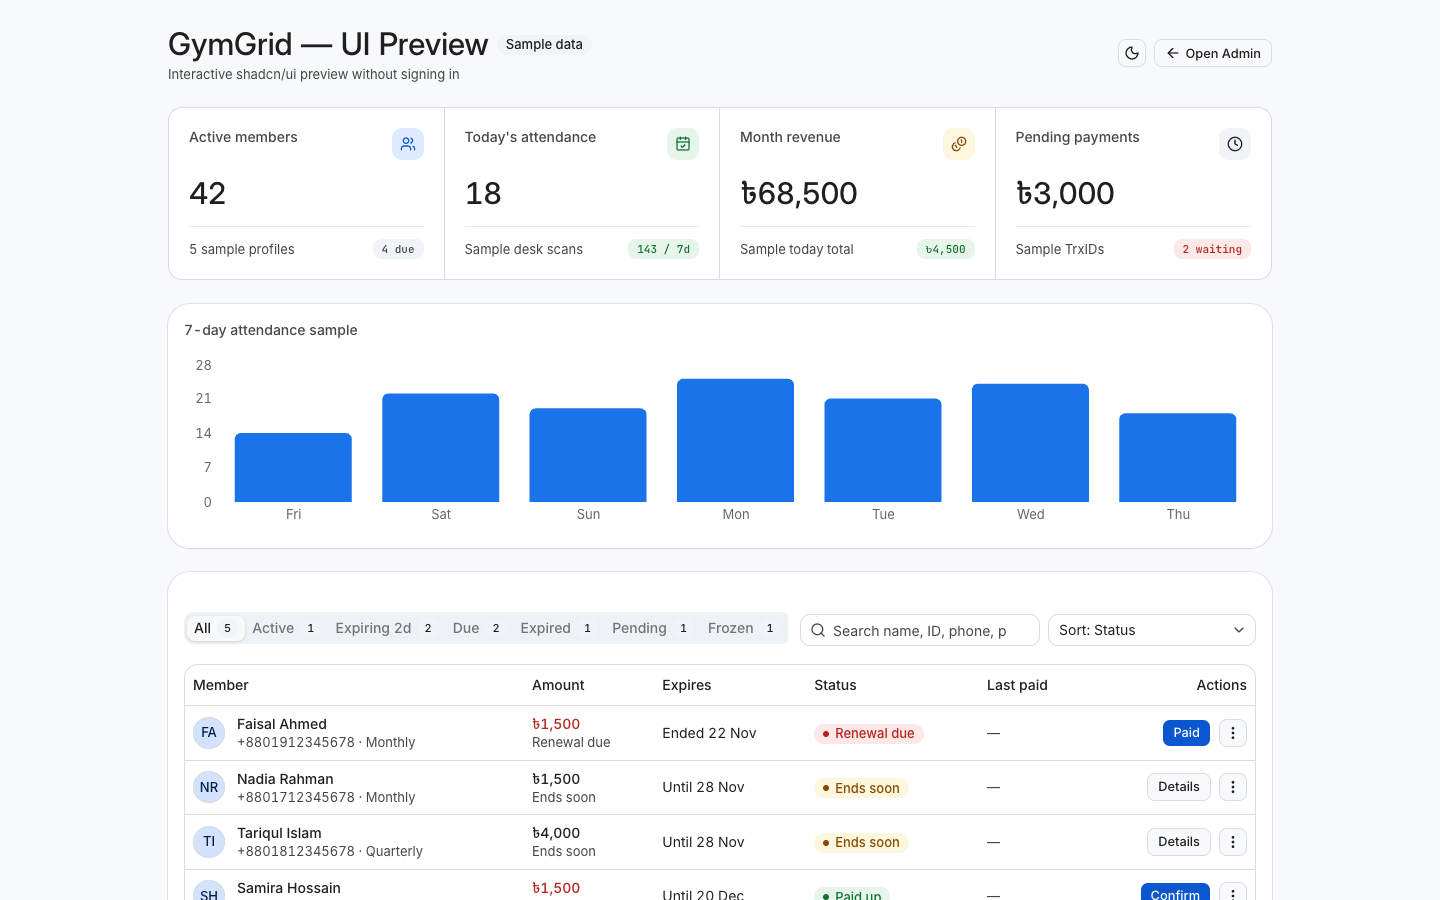
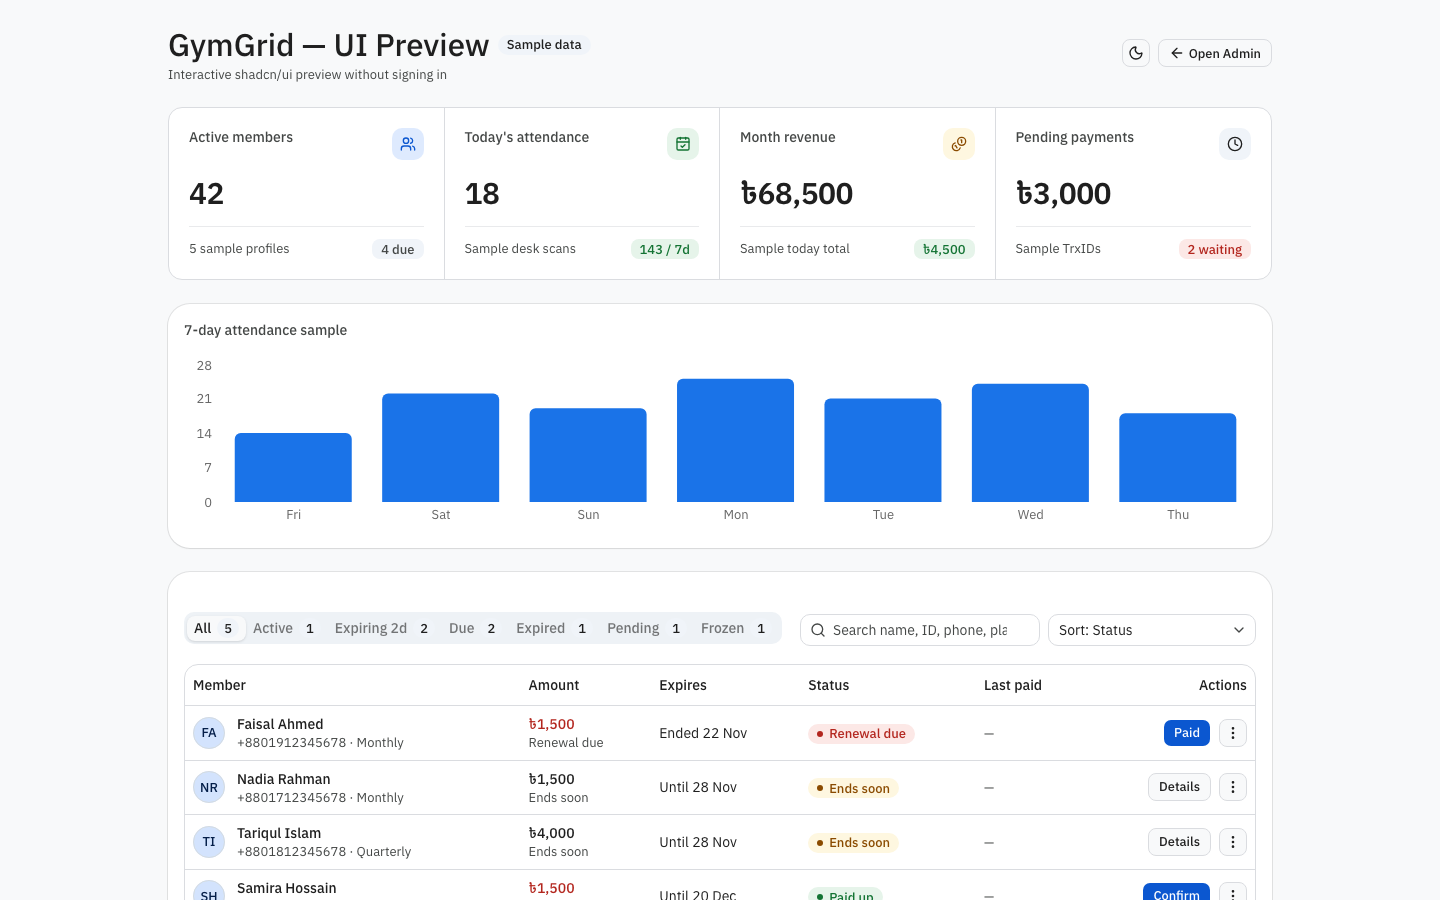
style(dashboard): switch to IBM Plex Sans and refine typography

diff --git a/components/member/MemberOverview.tsx b/components/member/MemberOverview.tsx
@@ -379,7 +379,7 @@ export function MemberOverview({
               <div className="flex flex-wrap items-center gap-2">
                 <CardTitle className="text-base font-medium">Member pass</CardTitle>
                 {member.member_code ? (
-                  <Badge variant="outline" className="rounded-md font-mono text-[11px] tabular-nums">
+                  <Badge variant="outline" className="rounded-md font-mono text-xs tabular-nums">
                     <bdi>{member.member_code}</bdi>
                   </Badge>
                 ) : null}
@@ -397,7 +397,7 @@ export function MemberOverview({
                 .filter((chip) => chip.label !== "Member ID")
                 .map((chip) => (
                   <div key={chip.label} className="min-w-0">
-                    <dt className="text-[11px] leading-[1.3] font-medium text-muted-foreground">
+                    <dt className="text-xs leading-[1.3] font-medium text-muted-foreground">
                       {chip.label}
                     </dt>
                     <dd
@@ -581,13 +581,13 @@ export function MemberOverview({
                     dataKey="label"
                     tickLine={false}
                     axisLine={false}
-                    className="font-mono text-[11px]"
+                    className="text-xs tabular-nums"
                   />
                   <YAxis
                     allowDecimals={false}
                     tickLine={false}
                     axisLine={false}
-                    className="font-mono text-[11px]"
+                    className="text-xs tabular-nums"
                   />
                   <ChartTooltip content={<ChartTooltipContent />} />
                   <Bar dataKey="count" radius={[6, 6, 0, 0]}>

diff --git a/app/layout.tsx b/app/layout.tsx
@@ -2,7 +2,8 @@ import type { Metadata, Viewport } from "next";
 import {
   Geist,
   Geist_Mono,
-  Inter,
+  IBM_Plex_Mono,
+  IBM_Plex_Sans,
   JetBrains_Mono,
   Newsreader,
   Noto_Sans_Bengali,
@@ -14,10 +15,17 @@ import { Toaster } from "@/components/ui/sonner";
 import { TooltipProvider } from "@/components/ui/tooltip";
 import "./globals.css";
 
-const inter = Inter({
+const plexSans = IBM_Plex_Sans({
   subsets: ["latin"],
-  variable: "--font-inter",
-  axes: ["opsz"],
+  weight: ["400", "500", "600", "700"],
+  variable: "--font-plex-sans",
+  display: "swap",
+});
+
+const plexMono = IBM_Plex_Mono({
+  subsets: ["latin"],
+  weight: ["400", "500", "600"],
+  variable: "--font-plex-mono",
   display: "swap",
 });
 
@@ -48,6 +56,7 @@ const geistMono = Geist_Mono({
 const editorial = Newsreader({
   subsets: ["latin"],
   weight: ["500", "600"],
+  style: ["normal", "italic"],
   variable: "--font-editorial",
   display: "swap",
 });
@@ -82,7 +91,7 @@ export default function RootLayout({ children }: { children: ReactNode }) {
       lang="en"
       dir="ltr"
       suppressHydrationWarning
-      className={`${inter.variable} ${bengali.variable} ${mono.variable} ${editorial.variable} ${geist.variable} ${geistMono.variable} h-full antialiased`}
+      className={`${plexSans.variable} ${plexMono.variable} ${bengali.variable} ${mono.variable} ${editorial.variable} ${geist.variable} ${geistMono.variable} h-full antialiased`}
     >
       {/* <!-- Designed & built by Moh Asraful Hasan Asif --> */}
       <body className="flex min-h-full flex-col bg-background font-sans text-foreground">

diff --git a/components/PlanView.tsx b/components/PlanView.tsx
@@ -45,7 +45,7 @@ export function PlanView({ workout, diet }: PlanViewProps) {
                       {day.focus ? `${day.day} - ${day.focus}` : day.day}
                     </div>
                     {estMin > 0 ? (
-                      <span className="text-[11px] font-mono text-muted-foreground tabular-nums">
+                      <span className="text-xs text-muted-foreground tabular-nums">
                         ~{estMin} min
                       </span>
                     ) : null}
@@ -74,7 +74,7 @@ export function PlanView({ workout, diet }: PlanViewProps) {
                             {muscles}
                           </span>
                           {notes ? (
-                            <span className="block text-[11px] text-muted-foreground/80">
+                            <span className="block text-xs leading-[1.4] text-muted-foreground/85">
                               {notes}
                             </span>
                           ) : null}
@@ -98,7 +98,7 @@ export function PlanView({ workout, diet }: PlanViewProps) {
                         {c.incline_pct != null ? ` · ${c.incline_pct}% incline` : ""}
                       </span>
                       {c.intensity?.trim() ? (
-                        <span className="block text-[11px] text-muted-foreground/80">
+                        <span className="block text-xs leading-[1.4] text-muted-foreground/85">
                           {c.intensity.trim()}
                         </span>
                       ) : null}

diff --git a/app/globals.css b/app/globals.css
@@ -7,9 +7,9 @@
 @custom-variant dark (&:is(.dark *));
 
 @theme inline {
-  --font-heading: var(--font-inter), "Inter", ui-sans-serif, system-ui, "Noto Sans Bengali", var(--font-bengali), sans-serif;
-  --font-sans: var(--font-inter), "Inter", ui-sans-serif, system-ui, "Noto Sans Bengali", var(--font-bengali), sans-serif;
-  --font-mono: var(--font-mono-source), ui-monospace, "SFMono-Regular", Menlo, Consolas, monospace;
+  --font-heading: var(--font-plex-sans), "IBM Plex Sans", var(--font-bengali), "Noto Sans Bengali", ui-sans-serif, system-ui, sans-serif;
+  --font-sans: var(--font-plex-sans), "IBM Plex Sans", var(--font-bengali), "Noto Sans Bengali", ui-sans-serif, system-ui, sans-serif;
+  --font-mono: var(--font-plex-mono), "IBM Plex Mono", ui-monospace, "SFMono-Regular", Menlo, Consolas, monospace;
 
   --color-background: var(--background);
   --color-foreground: var(--foreground);
@@ -184,6 +184,9 @@
   a {
     text-underline-position: from-font;
     text-decoration-thickness: from-font;
+  }
+  [data-slot="badge"] {
+    text-box: trim-both cap alphabetic;
   }
   .hl-page {
     --font-heading: var(--font-geist), "Geist", system-ui, -apple-system, sans-serif;

diff --git a/components/admin/TodayClient.tsx b/components/admin/TodayClient.tsx
@@ -260,13 +260,13 @@ export function TodayClient() {
                   dataKey="label"
                   tickLine={false}
                   axisLine={false}
-                  className="font-mono text-[11px]"
+                  className="text-xs tabular-nums"
                 />
                 <YAxis
                   allowDecimals={false}
                   tickLine={false}
                   axisLine={false}
-                  className="font-mono text-[11px]"
+                  className="text-xs tabular-nums"
                 />
                 <ChartTooltip content={<ChartTooltipContent />} />
                 <Bar dataKey="count" radius={[6, 6, 0, 0]}>
@@ -325,7 +325,7 @@ export function TodayClient() {
                         {m.name}
                       </span>
                       {m.member_code ? (
-                        <Badge variant="outline" className="rounded-md font-mono text-[11px] tabular-nums">
+                        <Badge variant="outline" className="rounded-md font-mono text-xs tabular-nums">
                           <bdi>{m.member_code}</bdi>
                         </Badge>
                       ) : null}

diff --git a/components/DataTable.tsx b/components/DataTable.tsx
@@ -183,7 +183,7 @@ export function DataTable({
               {FILTERS.map((f) => (
                 <TabsTrigger key={f.key} value={f.key} className="gap-1.5">
                   <span>{f.label}</span>
-                  <Badge variant="secondary" className="px-1.5 text-[11px]">
+                  <Badge variant="secondary" className="px-1.5 text-xs tabular-nums">
                     {counts[f.key]}
                   </Badge>
                 </TabsTrigger>
@@ -285,7 +285,7 @@ export function DataTable({
                                 <bdi>{m.name}</bdi>
                               </span>
                               {m.member_code ? (
-                                <Badge variant="outline" className="rounded-md font-mono text-[11px] tabular-nums">
+                                <Badge variant="outline" className="rounded-md font-mono text-xs tabular-nums">
                                   <bdi>{m.member_code}</bdi>
                                 </Badge>
                               ) : null}

diff --git a/components/DashboardShell.tsx b/components/DashboardShell.tsx
@@ -256,7 +256,7 @@ export function DashboardShell({
               />
               <div className="min-w-0 flex-1">
                 <div className="flex min-w-0 flex-wrap items-center gap-2">
-                  <h1 className="font-[family-name:var(--font-editorial)] text-xl leading-[1.2] font-medium tracking-[-0.02em] text-foreground text-balance md:text-[1.75rem]">
+                  <h1 className="font-heading text-xl leading-[1.2] font-semibold tracking-[-0.02em] text-foreground text-balance md:text-[1.75rem]">
                     {header.title}
                   </h1>
                   {header.badge ? (
@@ -345,7 +345,7 @@ export function DashboardShell({
                 </span>
                 <span
                   className={cn(
-                    "max-w-full truncate text-[11px] leading-[1.2]",
+                    "max-w-full truncate text-xs leading-[1.2]",
                     item.active ? "font-semibold text-primary" : "font-medium",
                   )}
                 >

diff --git a/components/member/MemberPay.tsx b/components/member/MemberPay.tsx
@@ -474,7 +474,7 @@ export function MemberPay({
                       onClick={() => setSelectedMethod(option.id)}
                       onKeyDown={(e) => handleRadioKeyDown(e, option.id)}
                       className={cn(
-                        "inline-flex min-h-11 items-center justify-center rounded-xl px-3 text-sm font-medium transition-colors outline-none select-none touch-manipulation focus-visible:border-ring focus-visible:ring-3 focus-visible:ring-ring/50 disabled:pointer-events-none disabled:opacity-50",
+                        "inline-flex min-h-11 items-center justify-center rounded-xl px-3 text-sm font-medium transition-colors outline-none touch-manipulation focus-visible:border-ring focus-visible:ring-3 focus-visible:ring-ring/50 disabled:pointer-events-none disabled:opacity-50",
                         isSelected
                           ? "bg-primary text-primary-foreground shadow-xs"
                           : "text-foreground hover:bg-muted",

diff --git a/components/StatCards.tsx b/components/StatCards.tsx
@@ -72,7 +72,7 @@ export function StatCards({
               </span>
             </div>
 
-            <p className="text-2xl leading-[1.15] font-medium tracking-tight tabular-nums text-foreground sm:text-[1.875rem]">
+            <p className="text-2xl leading-[1.15] font-semibold tracking-[-0.02em] tabular-nums text-foreground sm:text-[1.875rem]">
               {stat.value}
             </p>
 
@@ -82,7 +82,7 @@ export function StatCards({
               </span>
               <Badge
                 className={cn(
-                  "shrink-0 rounded-md font-mono text-[11px] font-medium tabular-nums",
+                  "shrink-0 rounded-md text-xs font-medium tabular-nums",
                   DELTA_CLASSES[stat.deltaTone],
                 )}
               >

diff --git a/app/tokens.css b/app/tokens.css
@@ -15,8 +15,8 @@
   --ease-in: cubic-bezier(0.7, 0, 0.84, 0);
   --ease-in-out: cubic-bezier(0.65, 0, 0.35, 1);
   --font-display: var(--font-editorial), Georgia, serif;
-  --font-body: var(--font-inter), "Inter", ui-sans-serif, system-ui, "Noto Sans Bengali", sans-serif;
-  --font-outlier: var(--font-mono-source), ui-monospace, "SFMono-Regular", Menlo, Consolas, monospace;
+  --font-body: var(--font-plex-sans), "IBM Plex Sans", var(--font-bengali), "Noto Sans Bengali", ui-sans-serif, system-ui, sans-serif;
+  --font-outlier: var(--font-plex-mono), "IBM Plex Mono", ui-monospace, "SFMono-Regular", Menlo, Consolas, monospace;
   --radius-card: 16px;
   --radius-control: 10px;
   --radius-pill: 999px;

diff --git a/components/member/MemberVisits.tsx b/components/member/MemberVisits.tsx
@@ -157,13 +157,13 @@ export function MemberVisits({ visits, streak }: MemberVisitsProps) {
                 tickLine={false}
                 axisLine={false}
                 minTickGap={10}
-                className="font-mono text-[11px]"
+                className="text-xs tabular-nums"
               />
               <YAxis
                 allowDecimals={false}
                 tickLine={false}
                 axisLine={false}
-                className="font-mono text-[11px]"
+                className="text-xs tabular-nums"
               />
               <ChartTooltip
                 content={

diff --git a/components/member/MemberPlans.tsx b/components/member/MemberPlans.tsx
@@ -297,7 +297,7 @@ export function MemberPlans({
                                   ) : null}
                                 </div>
                                 {muscleLabel ? (
-                                  <p className="text-[11px] font-medium text-muted-foreground capitalize">
+                                  <p className="text-xs font-medium text-muted-foreground capitalize">
                                     {muscleLabel}
                                   </p>
                                 ) : null}
